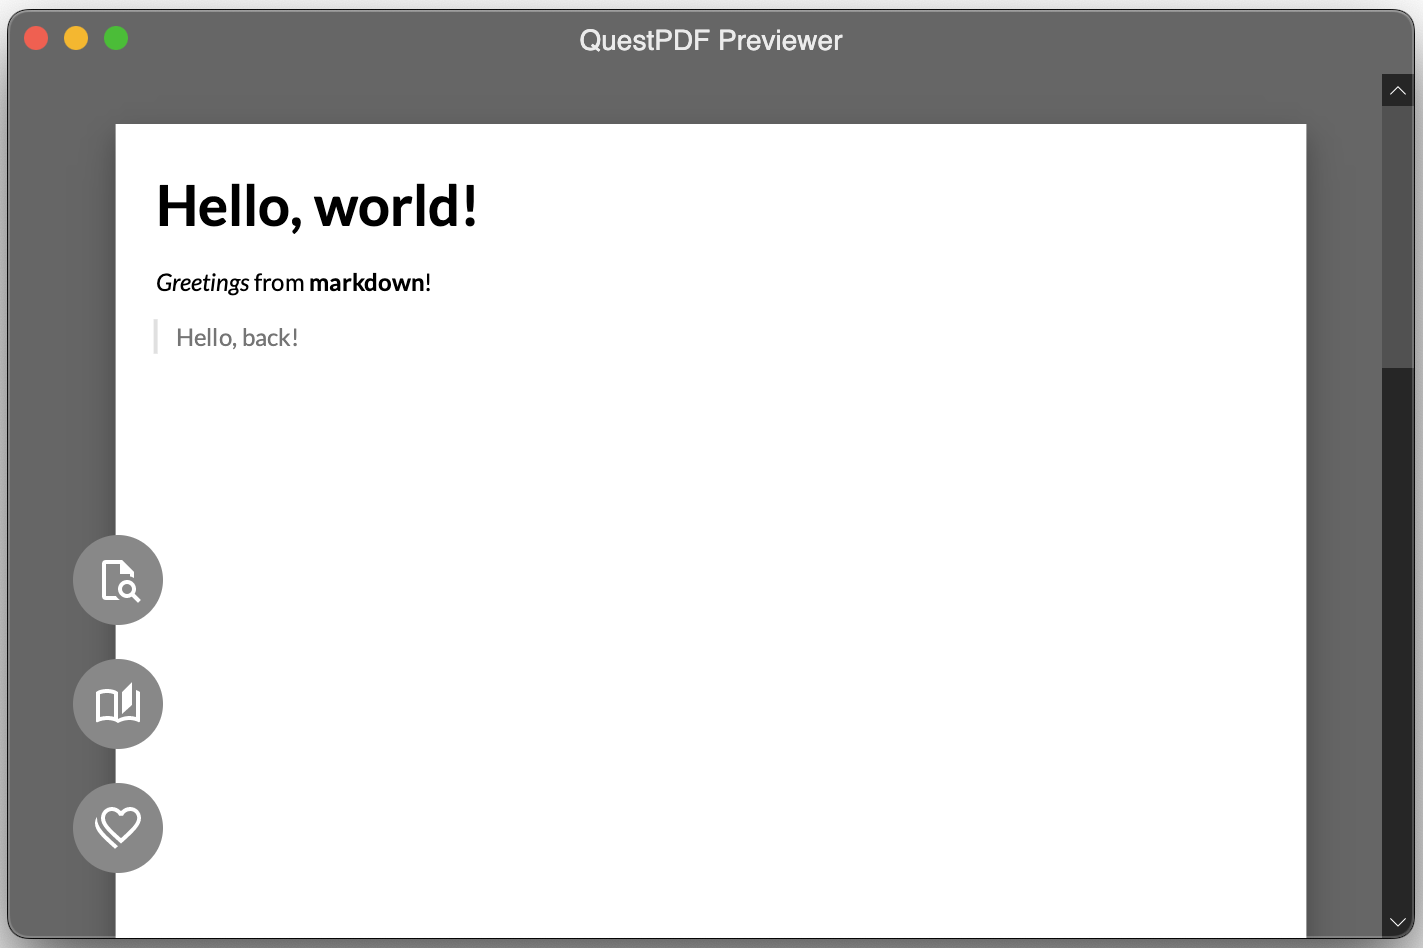
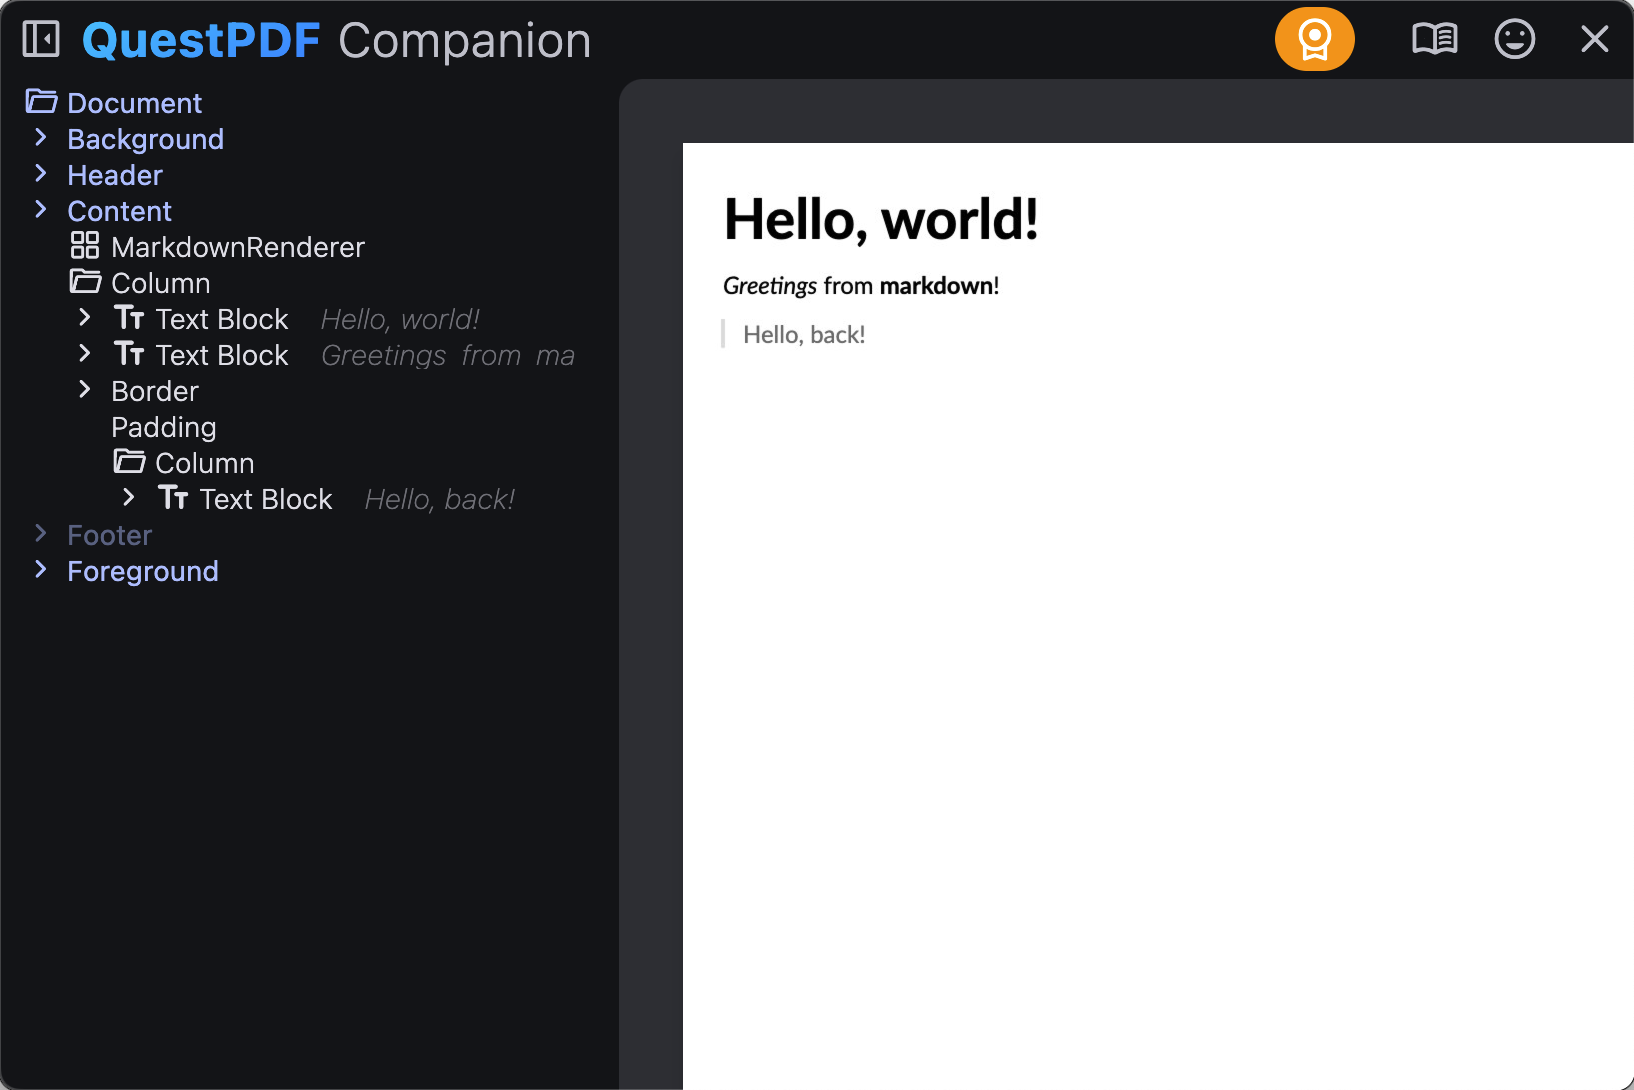
Update sample image to QuestPDF companion app

diff --git a/README.md b/README.md
@@ -11,10 +11,13 @@ QuestPDF.Markdown allows rendering markdown into a [QuestPDF](https://www.questp
 
 ## Usage
 ```csharp
-var text = 
-@"# Hello, world!
-*Greetings* from **markdown**!
-> Hello, back!";
+var text = """
+           # Hello, world!
+
+           *Greetings* from **markdown**!
+
+           > Hello, back!
+           """;
 
 var document = Document.Create(container =>
 {
